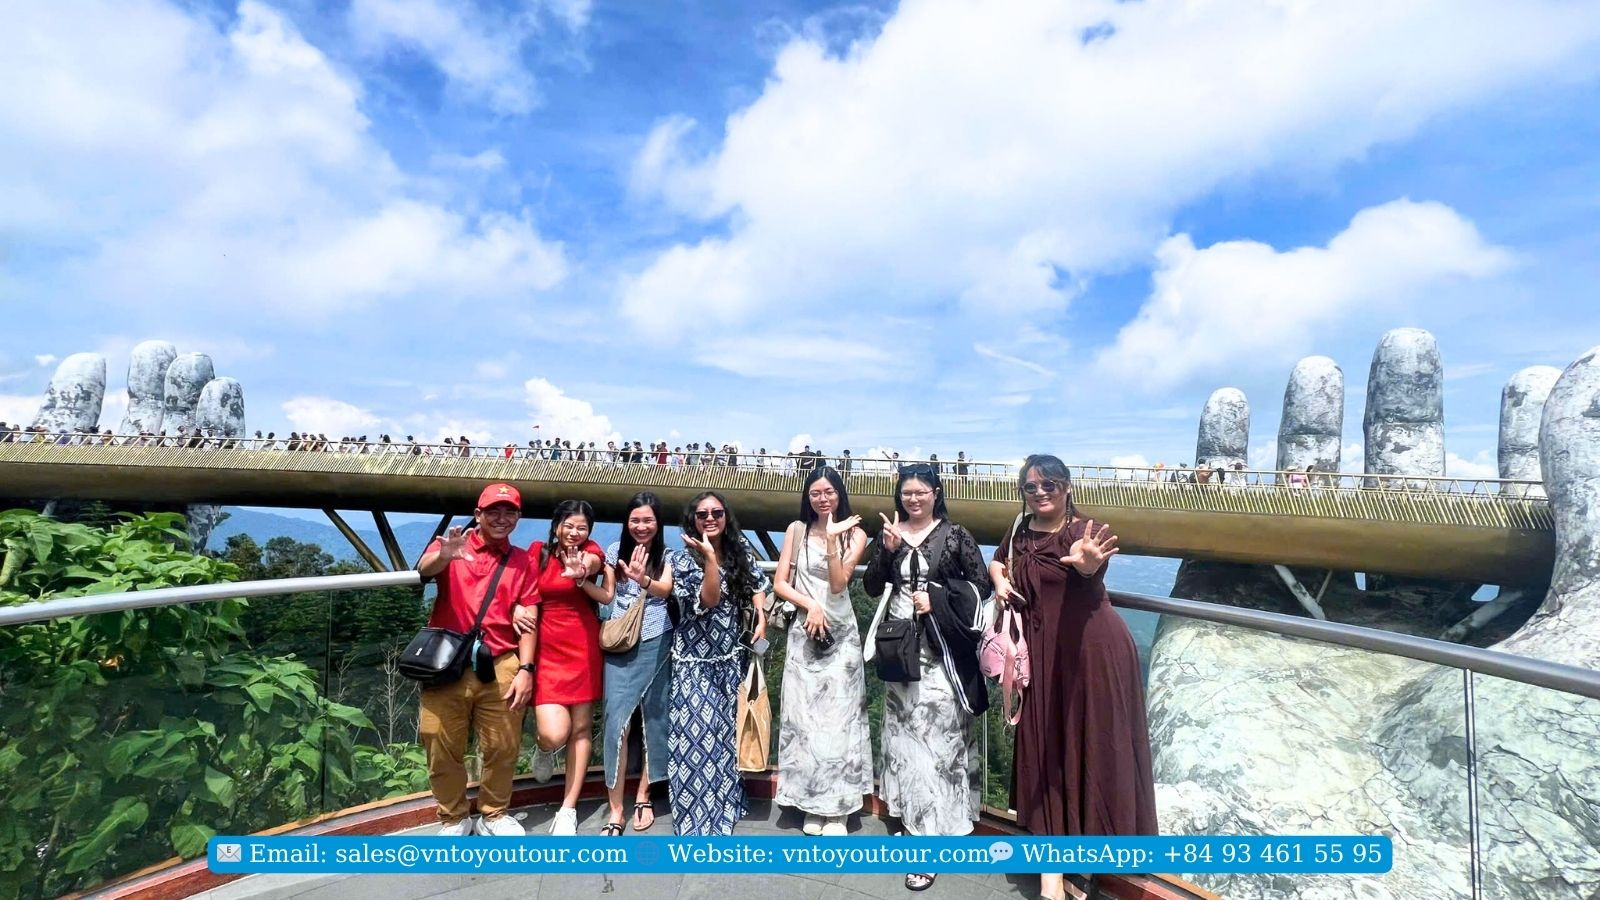
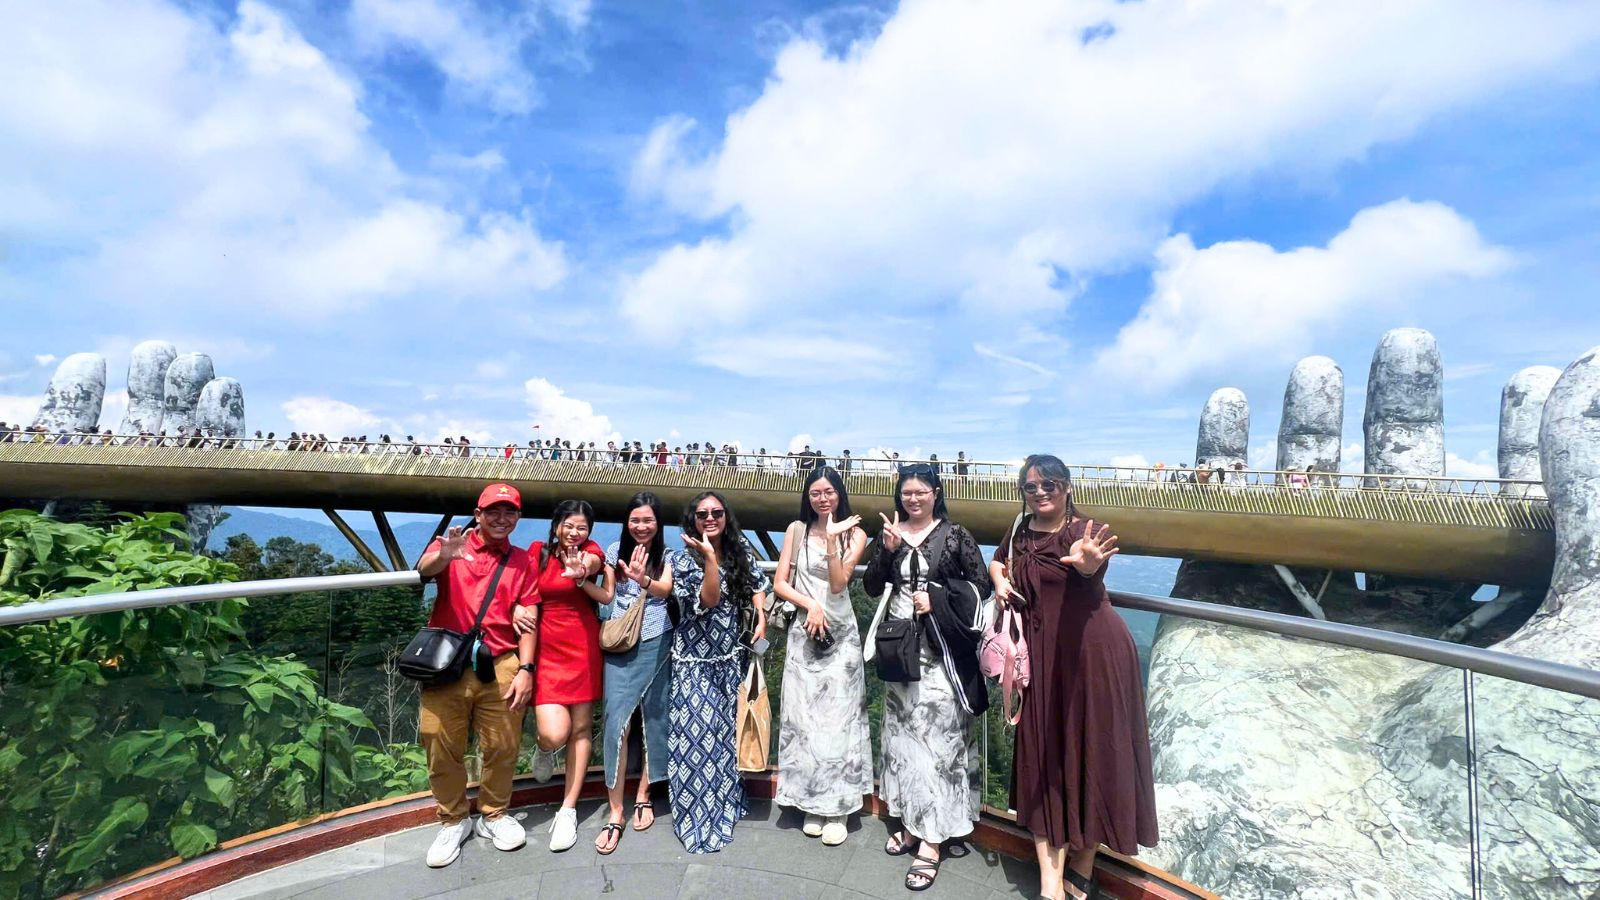
feat: Update private tour image and use local path
- Updated private-tour.jpg with new image
- Changed index.html to use local path instead of CDN URL
- Improved image dimensions: margin 15px, max-height 350px
- Better performance with local image loading

Changed region(s): [[0.125, 0.9022, 0.875, 0.9956]]

diff --git a/index.html b/index.html
@@ -183,7 +183,7 @@
         
         <h4>Private Tours</h4>
         <div style="position: relative; display: inline-block; width: 100%;">
-            <img src="https://vn-to-you-tour.vercel.app/assets/images/private-tour.jpg" alt="Private Tours - Customized Vietnam Travel Experience" style="width: 100%; aspect-ratio: 16/9; object-fit: cover; border-radius: 8px; margin: 10px 0; max-height: 300px;">
+            <img src="assets/images/private-tour.jpg" alt="Private Tours - Customized Vietnam Travel Experience" style="width: 100%; aspect-ratio: 16/9; object-fit: cover; border-radius: 8px; margin: 15px 0; max-height: 350px;">
             <div style="position: absolute; top: 50%; left: 50%; transform: translate(-50%, -50%); text-align: center;">
                 <a href="pages/private-tours.html" class="btn" style="background: rgba(255, 255, 255, 0.7); color: #0095d9; padding: 12px 24px; text-decoration: none; border-radius: 6px; font-weight: 600; font-size: 16px; box-shadow: 0 4px 15px rgba(0,0,0,0.3); transition: all 0.3s ease; backdrop-filter: blur(5px); border: 2px solid #0095d9;" onmouseover="this.style.background='rgba(255, 255, 255, 0.9)'; this.style.transform='scale(1.05)'" onmouseout="this.style.background='rgba(255, 255, 255, 0.7)'; this.style.transform='scale(1)'">View Private Tours</a>
             </div>
